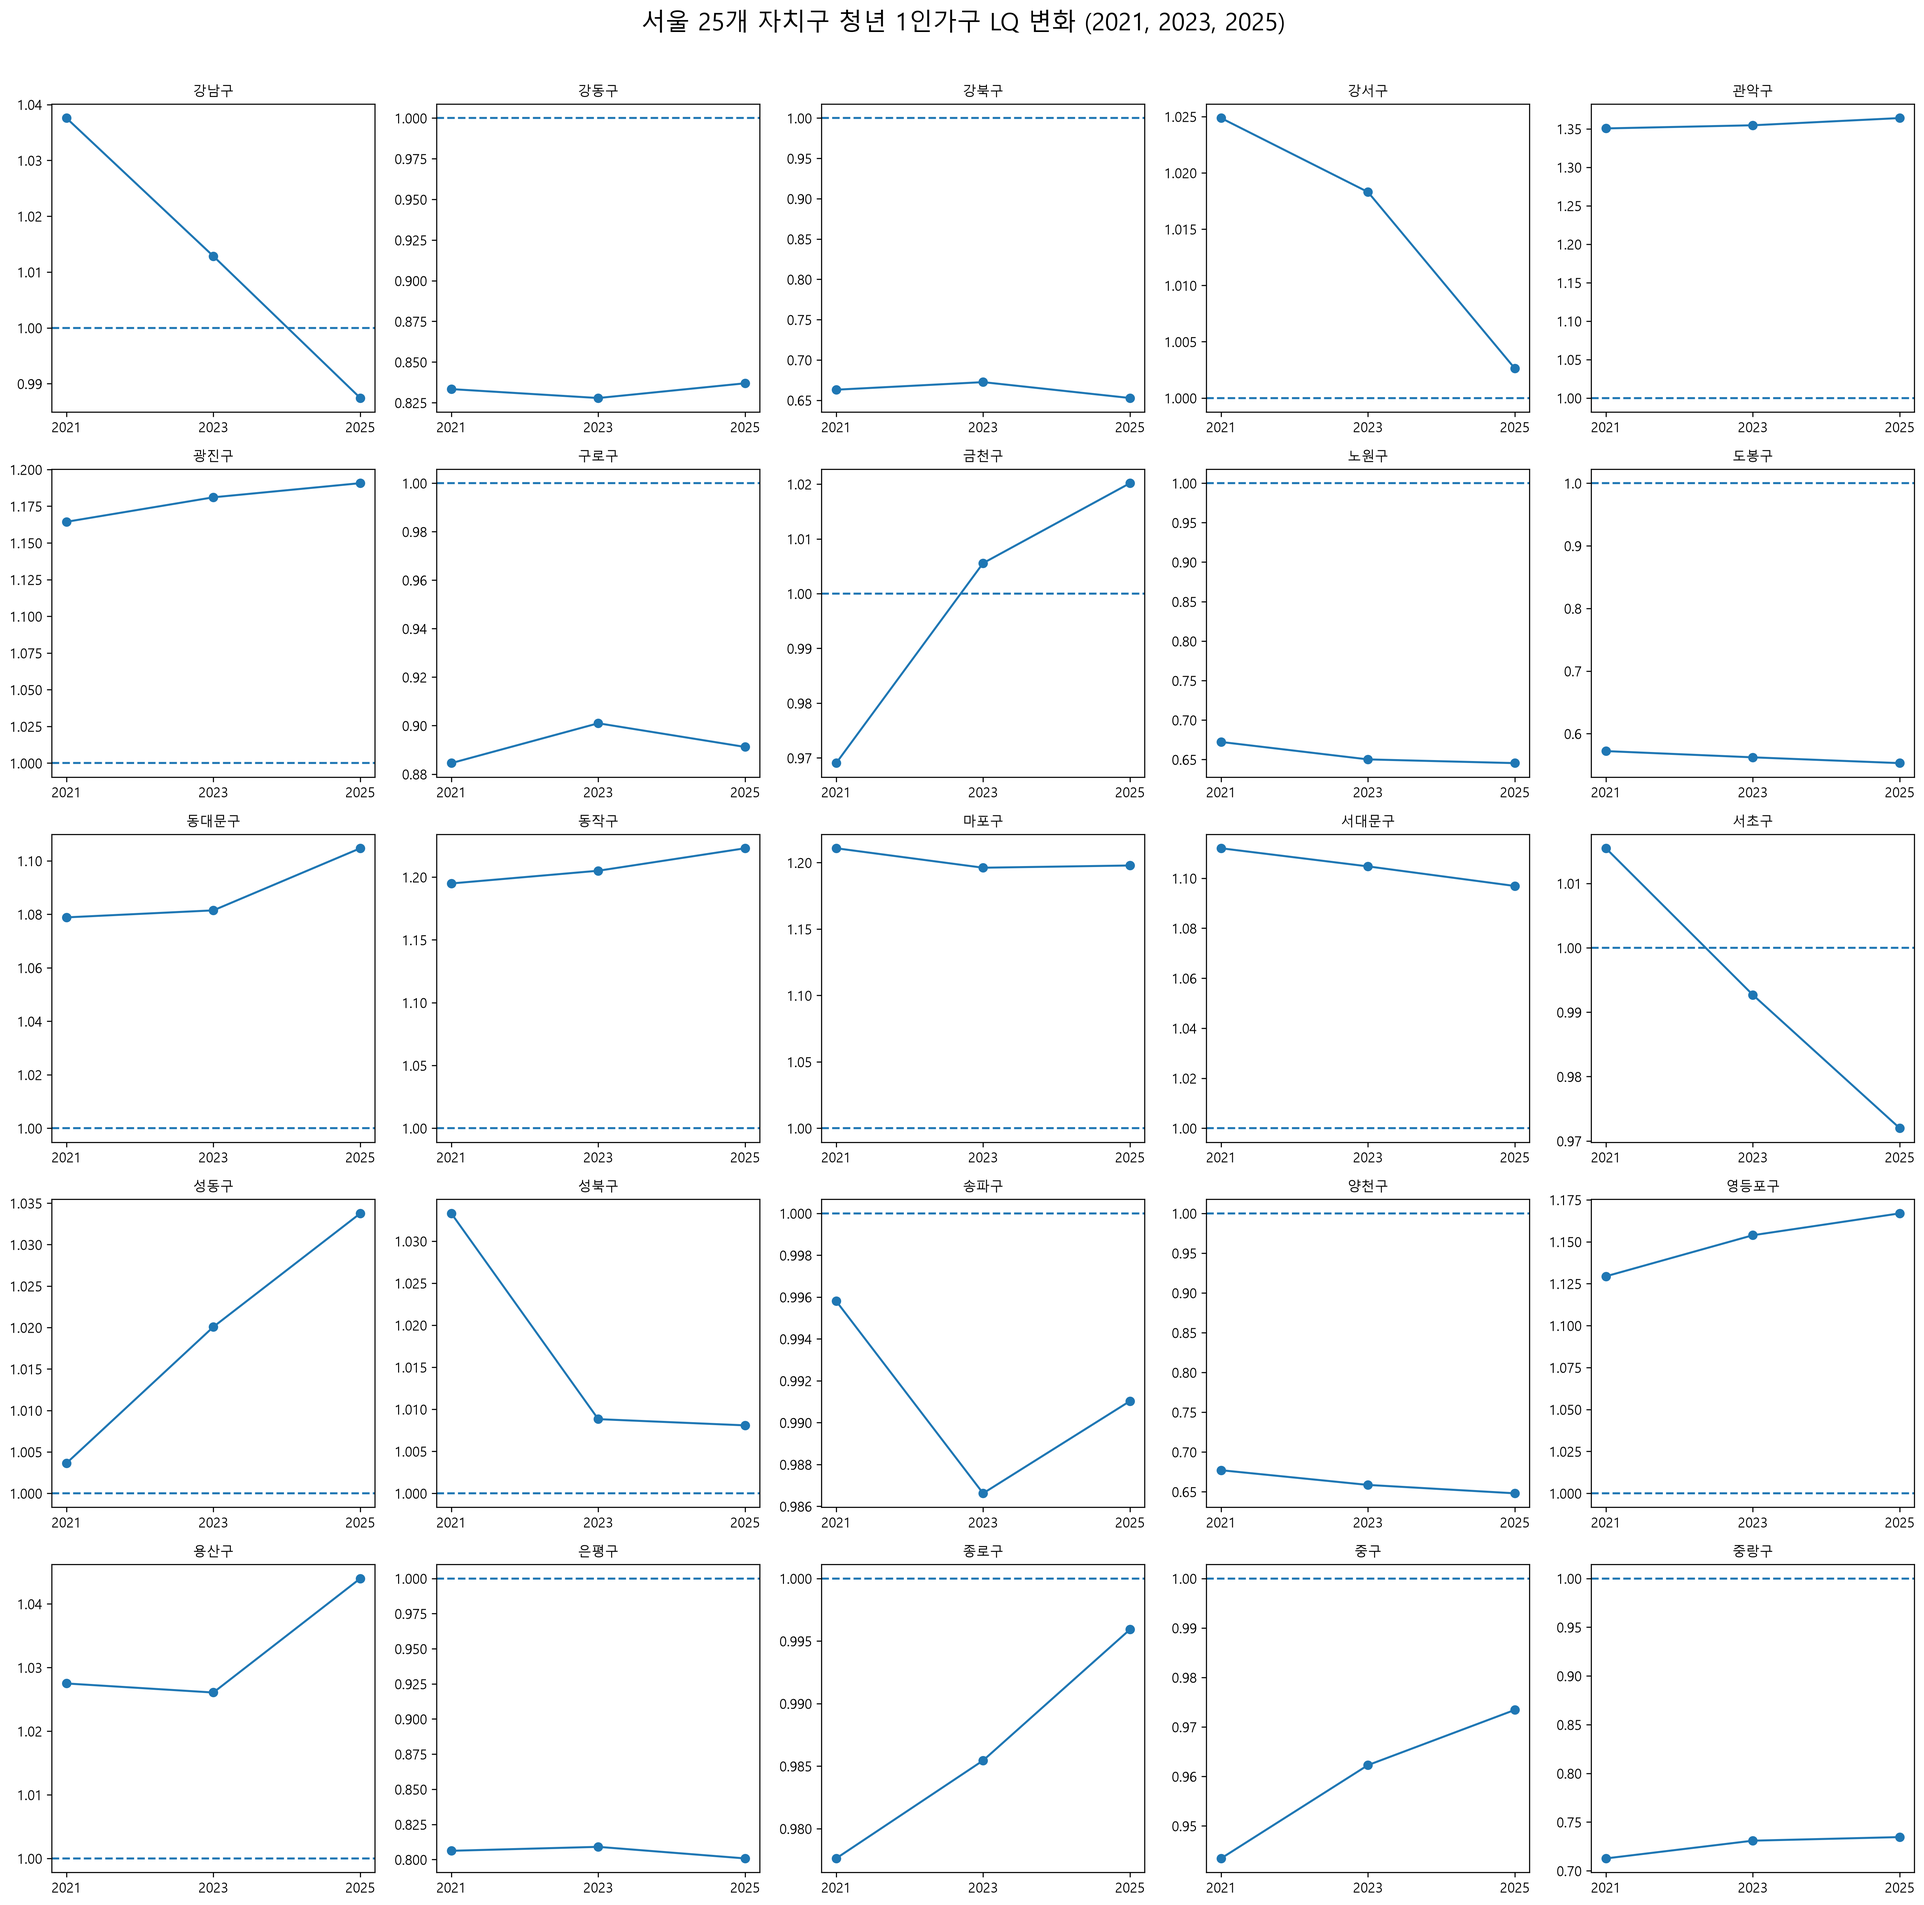
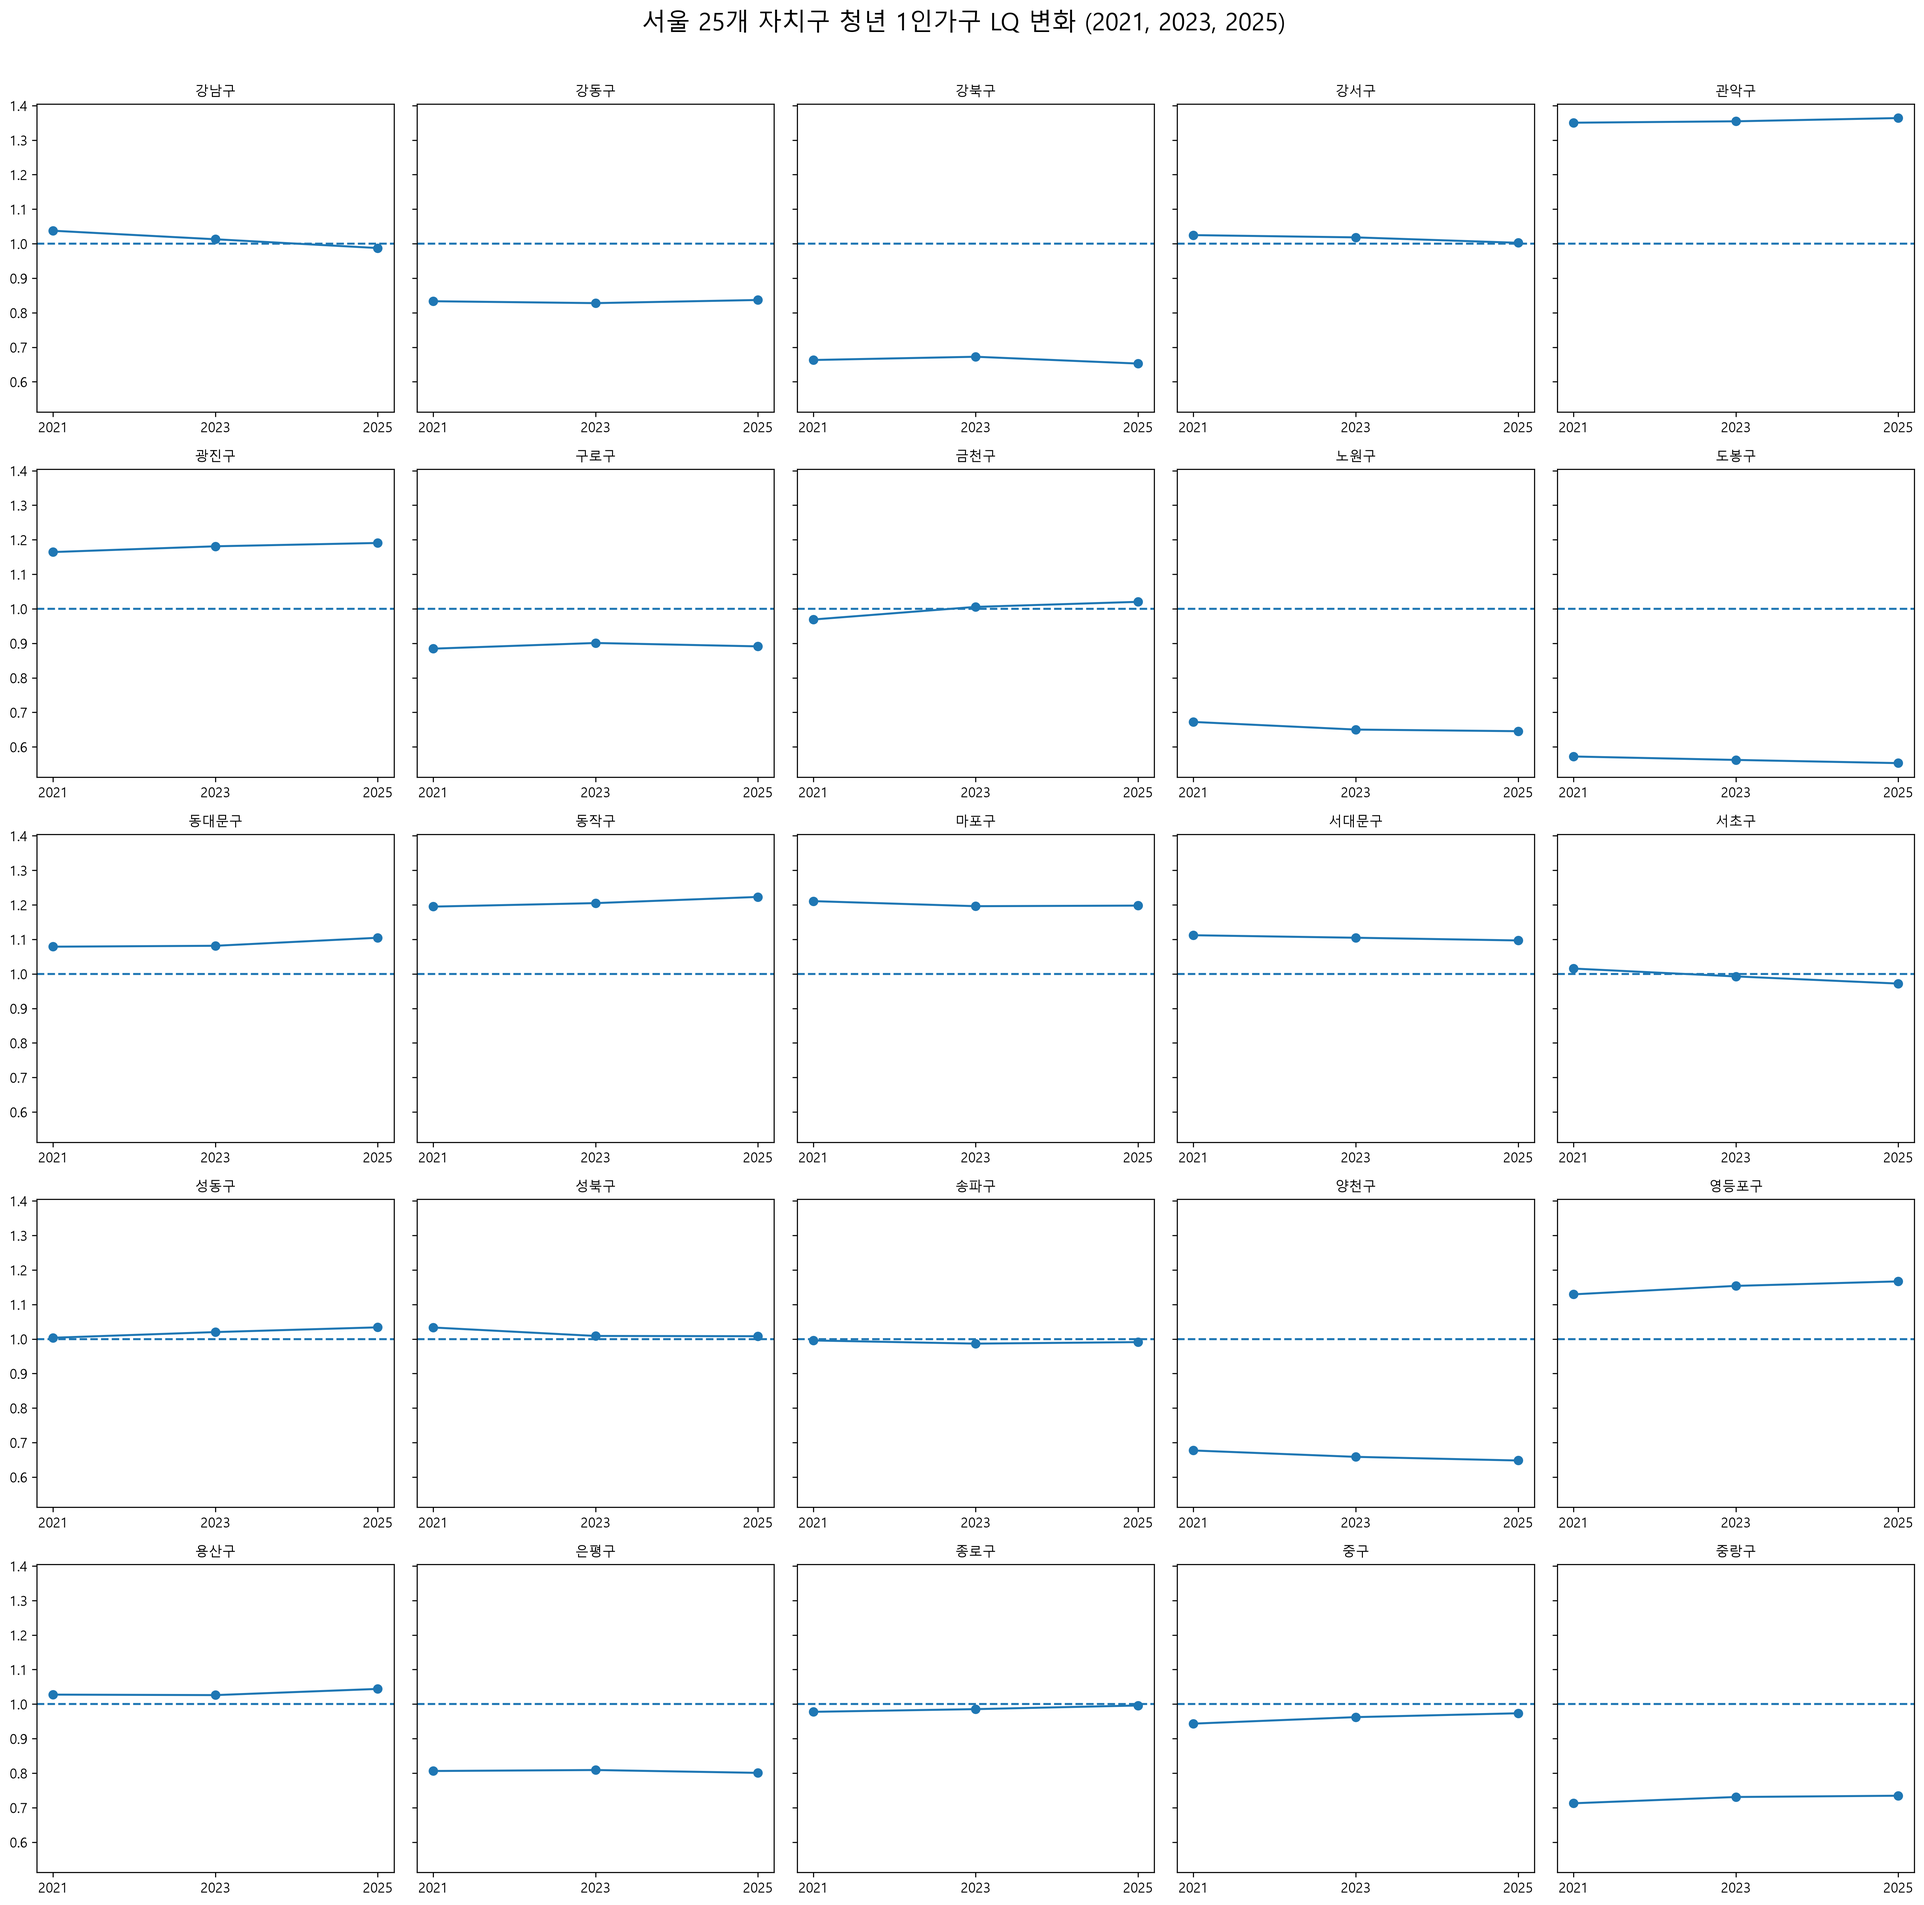
1인가구 LQ 변화 Y축 통일

diff --git a/src/visualization/youth_lq_rent_trend.py b/src/visualization/youth_lq_rent_trend.py
@@ -37,7 +37,7 @@ lq_cols = [col for col in normalized_df.columns if "LQ" in col]
 normalized_df = normalized_df.sort_values("자치구명")
 
 #작은 그래프 25칸(5*5) 생성
-fig, axes = plt.subplots(5, 5, figsize=(20, 20))
+fig, axes = plt.subplots(5, 5, figsize=(20, 20), sharey=True)
 #1차원으로 축소
 axes = axes.flatten()
 
